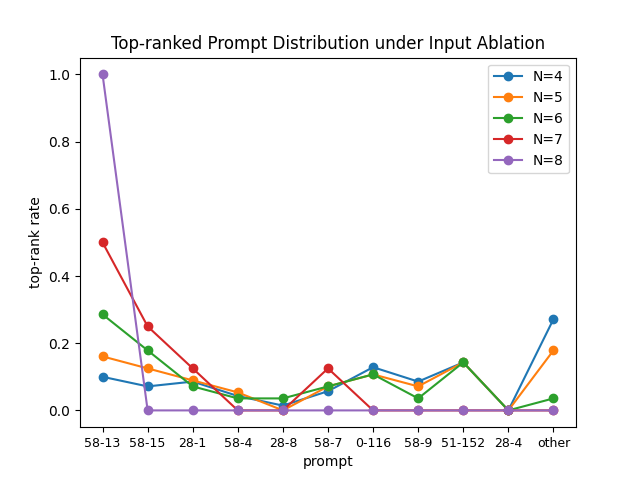
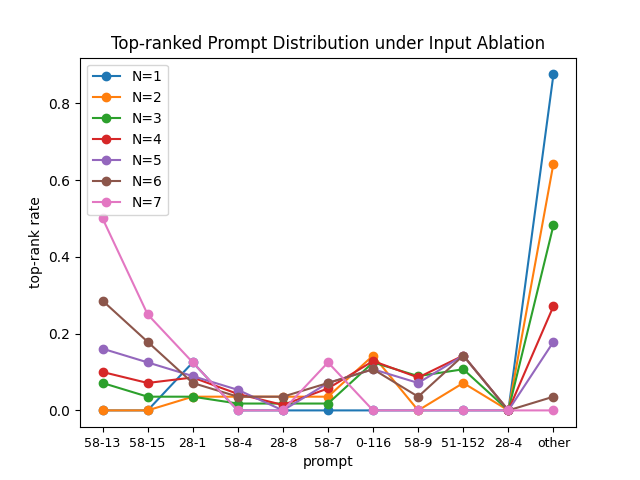
more ablation analysis

Changed region(s): [[0.0625, 0.125, 0.9062, 0.875], [0.0625, 0.5312, 0.125, 0.5938], [0.0625, 0.6875, 0.125, 0.7188]]

diff --git a/ablation.py b/ablation.py
@@ -1,3 +1,4 @@
+import matplotlib.pyplot as plt
 from util import correctness_stats, measure, pass_at_k, listdir
 from util import plotterino
 
@@ -46,11 +47,11 @@ def increment_counter(ctr, key):
 
 def main():
     chartdata = []
-    avgs = {}
-    Ns = [4, 5, 6, 7, 8]
+    scores = {}
+    Ns = [1, 2, 3, 4, 5, 6, 7]
     for n in Ns:
         print(n)
-        avgs[n] = 0
+        scores[n] = []
         counter = new_counter(10)
         for subkernel in permutify(kernel, n):
             data, probs = correctness_stats(
@@ -59,15 +60,49 @@ def main():
             stats = [(k, stats[k]["pass@1"])for k in stats]
             stats.sort(key=lambda a: a[1], reverse=True)
             increment_counter(counter, stats[0][0][24:])
-            avgs[n] += _stats[stats[0][0]]["pass@1"]
+            scores[n].append(_stats[stats[0][0]]["pass@1"])
         print(counter)
         vals = counter.values()
         valsum = sum(vals)
         chartdata.append([val/valsum for val in vals])
-        avgs[n] /= valsum
     plotterino(chartdata, "prompt", "top-rank rate", "ablation.png", "Top-ranked Prompt Distribution under Input Ablation",
                [k.replace("/", "-") for k in counter.keys()], legend=[f"N={n}" for n in Ns], ticksize=9)
-    print(avgs)
+    scores[0] = [0.3079]
+    scores[8] = [0.3575744743842625]
+    plotterino(scores, "Input Size (N)", "pass@1 score",
+               "ablation2.png", "Selection Phase Score Distribution of Selected Prompt under Input Ablation", scores.keys())
+
+
+partialstat = {0: 0.3079,
+               2: 0.3205017692244429,
+               3: 0.3323557535734997,
+               4: 0.34015109622821427,
+               5: 0.34419946828908765,
+               6: 0.34963226382931323,
+               7: 0.35447447532494314,
+               8: 0.3575744743842625}
+
+
+def scatter(data, xlabel, ylabel, path, title, xvals=None, legend=None, ticksize=None):
+    # Plotting the scores
+    for datum in data:
+        plt.scatter([], [], marker='o')
+
+    # Labeling the axes
+    plt.xlabel(xlabel)
+    plt.ylabel(ylabel)
+    ax = plt.gca()
+    if xvals is None:
+        ax.axes.xaxis.set_ticklabels([])
+    if ticksize:
+        ax.axes.xaxis.set_tick_params(labelsize=ticksize)
+    plt.title(title)
+
+    # Show the plot
+    if legend:
+        plt.legend(legend)
+    plt.savefig(path)
+    plt.clf()
 
 
 main()

diff --git a/util.py b/util.py
@@ -1,7 +1,6 @@
 import numpy as np
 import os
 import json
-import matplotlib
 import matplotlib.pyplot as plt
 
 
@@ -74,7 +73,7 @@ def correctness_stats(folders=[], include=None, exclude=None, union=False):
 
 
 def mean(l):
-    return sum(l)/len(l)
+    return sum(l)/len(l) if len(l) else 0
 
 
 def measure(data, metrics={}):
@@ -105,9 +104,16 @@ def measure(data, metrics={}):
 
 def plotterino(data, xlabel, ylabel, path, title, xvals=None, legend=None, ticksize=None):
     # Plotting the scores
-    for datum in data:
-        plt.plot(xvals if xvals else [
-                 i for i in range(len(datum))], datum, marker='o')
+    if isinstance(data, dict):
+        for k in data:
+            alpha = 1/len(data[k])
+            alpha = 0.3 if alpha < 0.3 else alpha
+
+            plt.plot([k for _ in data[k]], data[k], "o", alpha=alpha)
+    else:
+        for datum in data:
+            plt.plot(xvals if xvals else [
+                i for i in range(len(datum))], datum, marker='o')
 
     # Labeling the axes
     plt.xlabel(xlabel)
